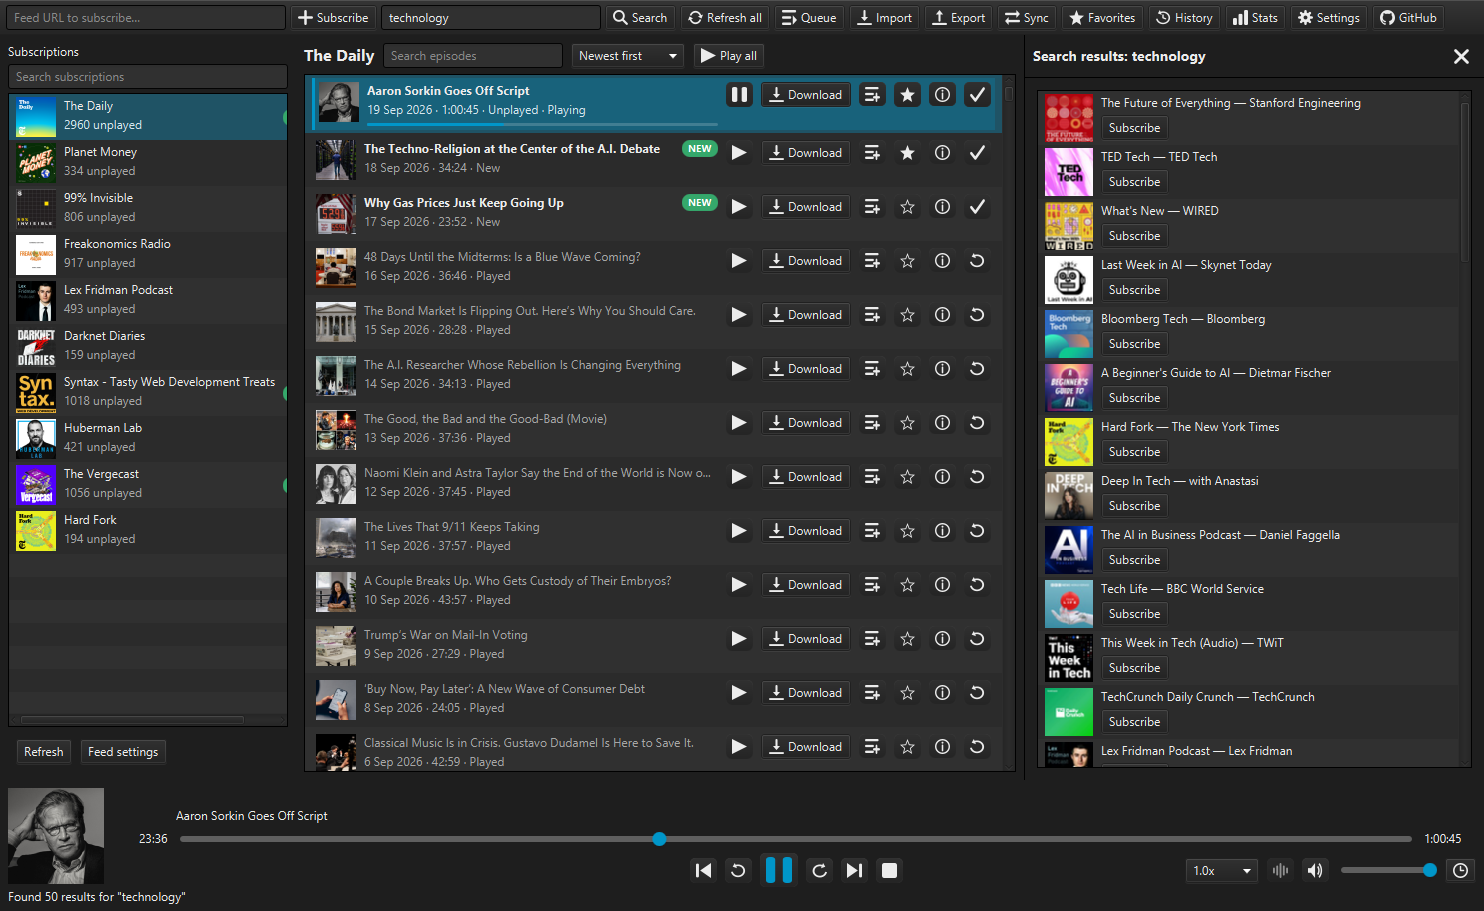
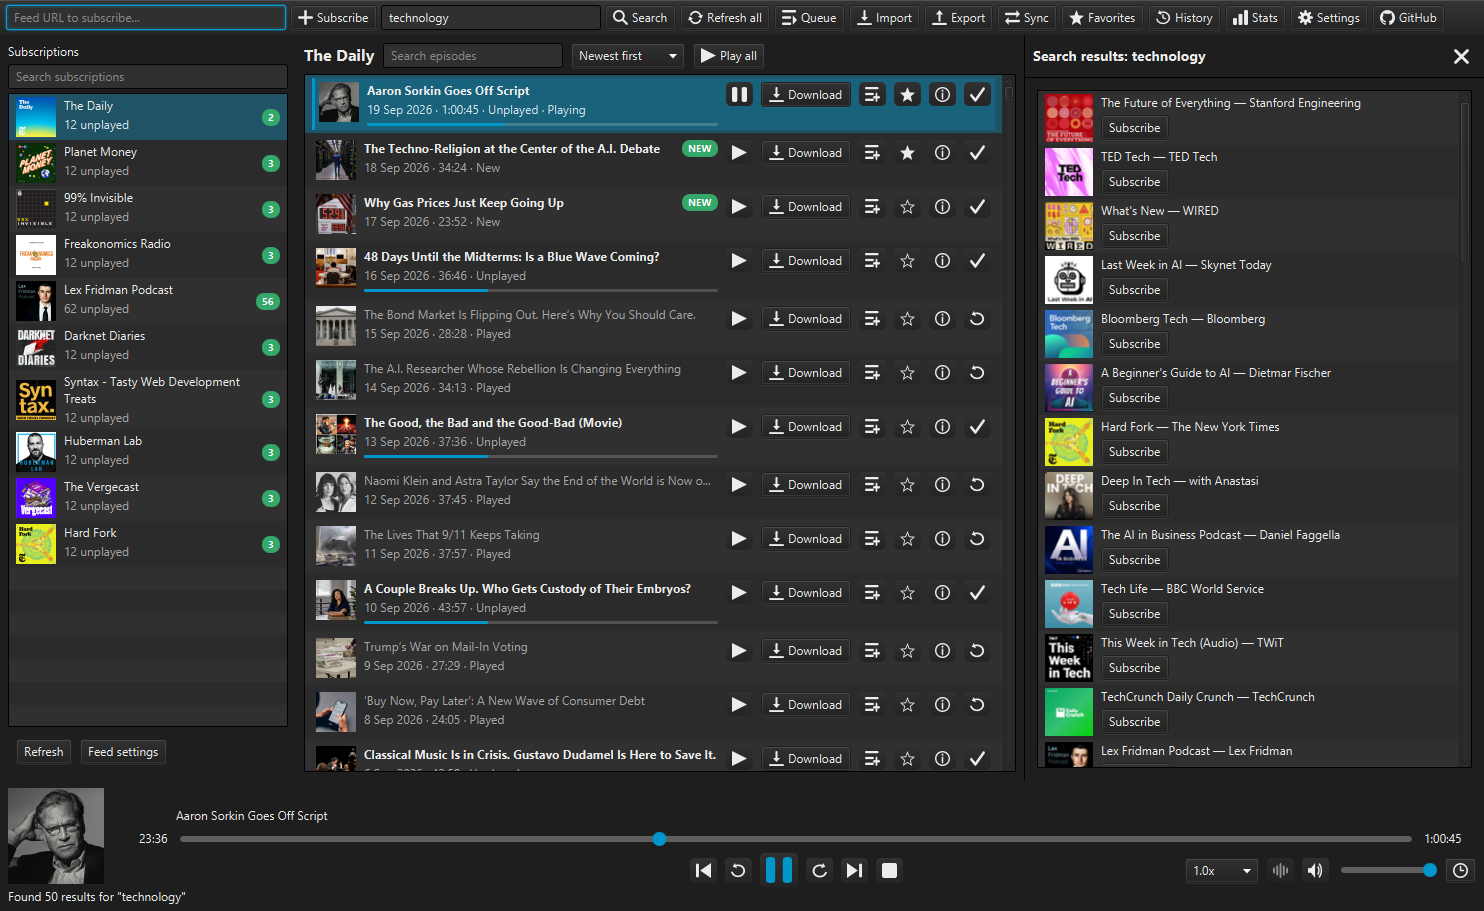
Improve layout of FeedCell and update screenshot assets

diff --git a/app/src/main/java/de/danoeh/antennapod/desktop/DesktopApp.java b/app/src/main/java/de/danoeh/antennapod/desktop/DesktopApp.java
@@ -643,19 +643,28 @@ public class DesktopApp extends Application implements PlaybackManager.Listener,
         private final HBox row;
 
         FeedCell() {
+            setPrefWidth(0);
             art.setFitWidth(40);
             art.setFitHeight(40);
             titleLabel.setWrapText(true);
+            titleLabel.setMinWidth(0);
+            titleLabel.setMaxWidth(Double.MAX_VALUE);
             countLabel.getStyleClass().add("muted-label");
+            countLabel.setMinWidth(0);
+            countLabel.setMaxWidth(Double.MAX_VALUE);
+            countLabel.setWrapText(false);
             newCountBadge.getStyleClass().add("badge-new");
             newCountBadge.setMinWidth(Region.USE_PREF_SIZE);
             newCountBadge.setTooltip(newCountTooltip);
             newCountBadge.setVisible(false);
             newCountBadge.setManaged(false);
             VBox texts = new VBox(2, titleLabel, countLabel);
+            texts.setMinWidth(0);
+            texts.setMaxWidth(Double.MAX_VALUE);
             HBox.setHgrow(texts, Priority.ALWAYS);
             row = new HBox(8, art, texts, newCountBadge);
             row.setAlignment(Pos.CENTER_LEFT);
+            row.setMaxWidth(Double.MAX_VALUE);
         }
 
         @Override
